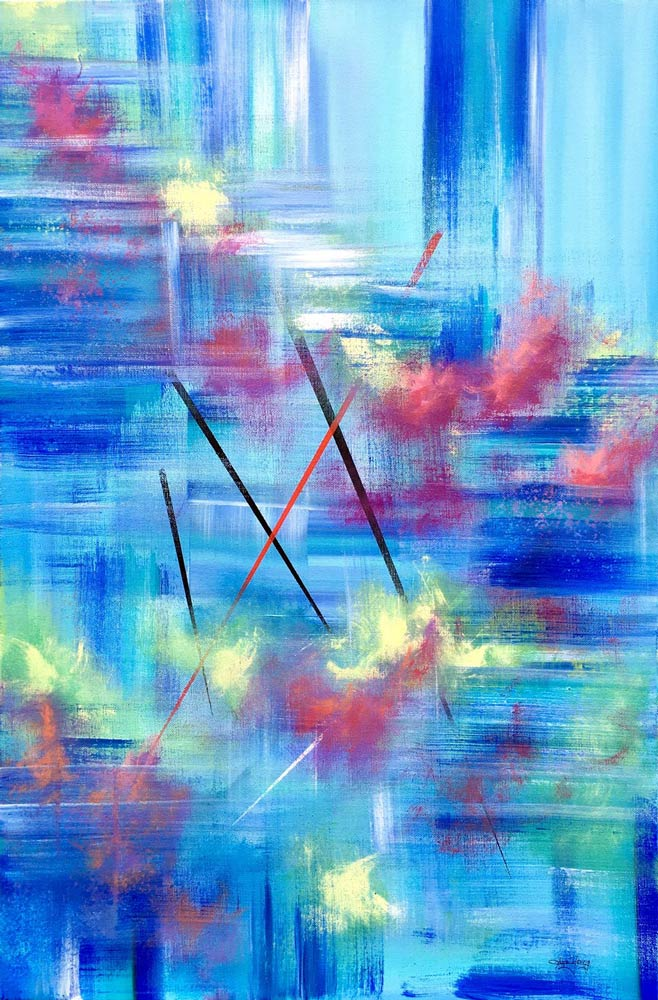
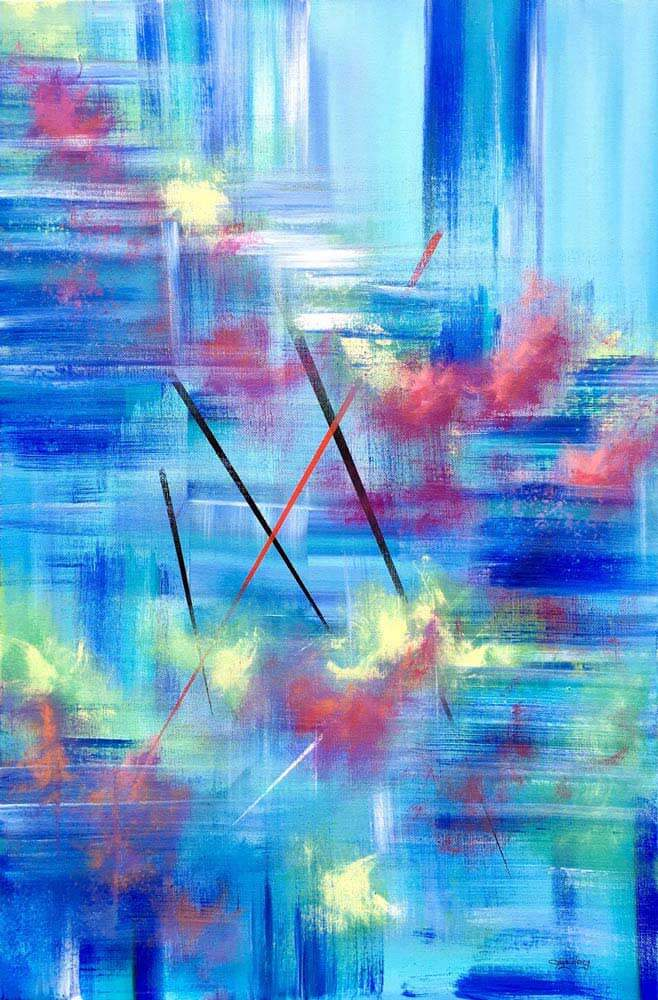
作品圖片壓縮與載入狀況優化 購買連結更新 作品說明更新 本書介紹加入全文

diff --git a/transmuting-pain/assets/css/common.min.css b/transmuting-pain/assets/css/common.min.css
@@ -1,1 +1,1 @@
-@import"https://fonts.googleapis.com/css2?family=Newsreader:opsz,wght@6..72,500&family=Noto+Sans+TC:wght@300;400;500&family=Noto+Serif+TC:wght@400;500&display=swap";body,h1,h2,h3,h4,h5,h6,p,blockquote,th,td,div,dl,dt,dd,ul,ol,li,pre,code,form,fieldset,legend,input,button,textarea{margin:0;padding:0}body,td,th{font:100%/1 Verdana,Geneva,sans-serif}h1,h2,h3,h4,h5,h6{font-size:100%;font-weight:normal}img,fieldset{border:0}ol,ul{list-style:none outside none}table{border-collapse:collapse;border-spacing:0}caption,th{text-align:left}a,ins{text-decoration:none}input,button,textarea,select,optgroup,option{font-family:inherit;font-size:inherit;font-style:inherit;font-weight:inherit}address,caption,cite,code,dfn,em,strong,th,var,optgroup{font-style:normal;font-weight:normal}abbr,acronym{border:0;font-variant:normal}sup,sub{font-size:100%;vertical-align:baseline}blockquote,q{quotes:none}blockquote:before,blockquote:after,q:before,q:after{content:""}code,kbd,samp,tt{font-size:100%}header,main,article,footer,div,section,ul{position:relative}input,button,select,textarea{outline:none;appearance:none;-webkit-appearance:none}*:focus{outline:none}body{font-family:"Noto Sans TC","LiHei Pro  Medium","Microsoft JhengHei","PMingLiU",Arial,sans-serif;-webkit-text-size-adjust:100%;-o-text-size-adjust:100%;text-size-adjust:100%;font-weight:300}a,*:hover{outline:none;transition:.3s ease-out}html,body{height:100%;border:none}img{width:100%;height:auto}div,section,header,footer,main,nav,ul,li,a,span{box-sizing:border-box}body{font-size:16px;font-family:"Noto Sans TC",sans-serif}@media(max-width: 799px){.pconly{display:none !important}}.mbonly{display:none}@media(max-width: 799px){.mbonly{display:inline-block !important}}.flex{display:-ms-flexbox;display:flex}.flex-pconly{display:-ms-flexbox;display:flex}@media(max-width: 799px){.flex-pconly{display:block !important}}.wrap{-ms-flex-wrap:wrap;flex-wrap:wrap}header{position:fixed;top:0;left:0;width:100%;padding:20px;z-index:99;transition:all .3s ease}@media(max-width: 799px){header{padding:15px 25px}}header.fixed{background-color:#fff;padding:8px 20px}@media(max-width: 799px){header.fixed{padding:15px 25px}}header .container{display:-ms-flexbox;display:flex;-ms-flex-pack:justify;justify-content:space-between;-ms-flex-align:center;align-items:center;margin:auto;width:100%;max-width:1260px}header .logo{width:120px}@media(max-width: 1200px){header .logo{width:100px}}header .logo:hover{opacity:.8}@media(max-width: 799px){header .hamberger{position:fixed;right:20px;top:18px;width:40px;height:40px;padding:5px;cursor:pointer;z-index:100}}@media(max-width: 799px){header .hamberger span{display:block;width:80%;height:3px;background-color:#8f6c51;position:absolute;left:10%;top:calc(50% - 1.5px)}}@media(max-width: 799px){header .hamberger span::before,header .hamberger span::after{content:"";display:block;width:100%;height:3px;background-color:#8f6c51;position:absolute;left:0}}@media(max-width: 799px){header .hamberger span::before{top:-8px}}@media(max-width: 799px){header .hamberger span::after{bottom:-8px}}@media(max-width: 799px){header nav{position:fixed;width:100%;height:100vh;top:0;left:100vw;background:#fff;padding:35px;z-index:101;transition:all .3s ease}}@media(max-width: 799px){header nav.show{left:0}}header nav ul{display:-ms-flexbox;display:flex;width:100%;gap:30px}@media(max-width: 1200px){header nav ul{gap:1.2vw}}@media(max-width: 799px){header nav ul{display:block}}header nav ul li{width:150px;padding:8px 15px;font-size:16px;line-height:1.8;text-align:center;color:#1e1e1e;cursor:pointer;border-bottom:2px solid rgba(0,0,0,0);transition:all .3s ease}@media(max-width: 1200px){header nav ul li{width:9vw}}@media(max-width: 799px){header nav ul li{width:100%;padding:10px 0;margin-bottom:30px}}header nav ul li:hover{color:#8f6c51;border-bottom-color:#8f6c51}header nav ul li.primary{background:#8f6c51;color:#fff;border:2px solid #8f6c51;border-radius:30px}header nav ul li.primary:hover{background:rgba(0,0,0,0);color:#8f6c51}@media(max-width: 799px){header nav .close{display:block;background-image:url(../images/close.svg);background-repeat:no-repeat;background-size:contain;margin-left:auto;margin-right:0;width:30px;height:30px;cursor:pointer}}main section{height:100vh;overflow:hidden}main section.content .container{margin:auto;padding:90px 50px;max-width:1180px}@media(max-width: 799px){main section.content .container{padding:90px 35px}}main section.content .container h2{text-align:center;font-size:42px;font-family:"Noto Serif TC",serif;font-weight:500;line-height:1.4;letter-spacing:4px;color:#8f6c51;margin-bottom:40px}@media(max-width: 1200px){main section.content .container h2{font-size:32px;margin-bottom:30px}}@media(max-width: 799px){main section.content .container h2{font-size:26px;letter-spacing:1.3px;margin-bottom:20px}}main section.content .container h2 span{display:inline-block;margin-left:-16px}@media(max-width: 799px){main section.content .container h2 span{display:block}}main section.content .container h2::after{content:"";display:block;width:70px;height:60px;background-image:url(../images/flora-spot.png);background-repeat:no-repeat;background-size:contain;margin:auto;margin-top:40px}@media(max-width: 1200px){main section.content .container h2::after{margin-top:30px;width:60px;height:50px}}@media(max-width: 799px){main section.content .container h2::after{margin-top:20px}}main section.content .container h3{font-size:26px;font-weight:500;line-height:1.2;letter-spacing:2.6px;font-family:"Noto Serif TC",serif;color:#8b8a8a;margin-bottom:18px}@media(max-width: 1200px){main section.content .container h3{font-size:22px;letter-spacing:2.2px}}main section.content.darkbg .container h2{color:#fff}main section.content.darkbg .container h2::after{background-image:url(../images/flora-spot-white.png)}main section.content.darkbg .container h3{color:#fff}main .kv{background-image:url(../images/kv-bg.jpg);background-repeat:no-repeat;background-size:cover;background-position:center;display:-ms-flexbox;display:flex;-ms-flex-align:center;align-items:center;min-height:590px;max-height:62.5vw}@media(max-width: 1200px){main .kv{min-height:680px;max-height:none}}@media(max-width: 799px){main .kv{background-image:url(../images/kv-bg-mb.jpg)}}main .kv .container{margin:auto;width:100%;max-width:1240px;display:-ms-flexbox;display:flex;-ms-flex-wrap:wrap;flex-wrap:wrap;padding:80px 50px}@media(max-width: 1200px){main .kv .container{padding:60px 30px}}@media(max-width: 799px){main .kv .container{padding:70px 0;display:block;text-align:center}}main .kv .container .cover{-ms-flex:0 0 208px;flex:0 0 208px;-ms-flex-order:2;order:2}@media(max-width: 1200px){main .kv .container .cover{-ms-flex:0 0 160px;flex:0 0 160px}}@media(max-width: 799px){main .kv .container .cover{width:255px;margin:auto;padding-right:35px;-ms-flex-order:0;order:0}}main .kv .container h1{-ms-flex:0 0 100%;flex:0 0 100%;padding-left:30px;-ms-flex-order:1;order:1;font-size:42px;line-height:1.4;letter-spacing:4px;color:#645b5b;margin-bottom:20px;font-weight:400;font-family:"Noto Serif TC",serif}@media(max-width: 1200px){main .kv .container h1{font-size:32px;padding-left:24px}}@media(max-width: 799px){main .kv .container h1{letter-spacing:2.8px;text-align:center;padding-left:0;font-size:28px;margin:10px auto}}@media(max-width: 490px){main .kv .container h1{font-size:24px;letter-spacing:1.5px}}main .kv .container h1 span{display:block;font-size:82px;letter-spacing:8px;color:#8f6c51;font-weight:500}@media(max-width: 1200px){main .kv .container h1 span{font-size:64px}}@media(max-width: 799px){main .kv .container h1 span{font-size:44px;letter-spacing:4px}}main .kv .container .label{display:none}@media(max-width: 799px){main .kv .container .label{display:inline-block;-ms-flex-order:1;order:1;background:#8f6c51;color:#fff;font-size:18px;font-family:"Noto Serif TC",serif;font-weight:500;letter-spacing:1.8px;line-height:1.4;padding:5px 10px;margin:auto;margin-bottom:10px}}main .kv .container .quote{-ms-flex-order:3;order:3;font-size:20px;line-height:1.5;letter-spacing:1.6px;padding:30px 0 0 45px;color:#645b5b}@media(max-width: 1200px){main .kv .container .quote{font-size:18px}}@media(max-width: 799px){main .kv .container .quote{padding:0px}}@media(max-width: 490px){main .kv .container .quote{font-size:16px;letter-spacing:1.2px}}main .kv .container .quote::before,main .kv .container .quote::after{content:"";background-repeat:no-repeat;background-size:contain;position:absolute;width:16px;height:16px}@media(max-width: 799px){main .kv .container .quote::before,main .kv .container .quote::after{display:none}}main .kv .container .quote::before{background-image:url(../images/quote-before-pc.svg);top:10px;left:20px}main .kv .container .quote::after{background-image:url(../images/quote-after-pc.svg);top:95px;right:0px}main .kv .container .quote p{padding-right:20px}@media(max-width: 799px){main .kv .container .quote p{padding:0}}@media(max-width: 799px){main .kv .container .quote p:first-child::before{content:"「"}}@media(max-width: 799px){main .kv .container .quote p:first-child::after{content:"」"}}main .kv .container .quote .name{margin-top:28px;padding-right:0;text-align:right}@media(max-width: 799px){main .kv .container .quote .name{text-align:center;margin-top:0}}main .kv .container .quote .name::before{content:"――";display:inline-block;margin-right:5px}@media(max-width: 799px){main .kv .container .quote .name::after{content:"――";display:inline-block;margin-left:5px}}main .kv .scrolldown{background-image:url(../images/scrolldown.png);background-repeat:no-repeat;background-size:contain;width:63px;height:40px;position:absolute;bottom:30px;left:50%;transform:translateX(-50%);animation:scrollDown 1.2s infinite;cursor:pointer}main .kv .scrolldown:hover{animation-play-state:paused}main .book{height:auto;background-color:#fffdee}main .book .text{width:calc(100% - 300px - 90px);margin-right:90px}@media(max-width: 1200px){main .book .text{width:calc(100% - 240px - 50px);margin-right:50px}}@media(max-width: 799px){main .book .text{width:100%;margin-right:0}}main .book .text p{font-size:16px;line-height:1.8;margin-bottom:18px}main .book .text p.strong{font-size:18px;font-weight:500}main .book .text a{color:#8f6c51;border-bottom:1px solid #8f6c51}main .book .text a:hover{color:#1e1e1e;border-color:rgba(0,0,0,0)}main .book .img{width:300px}@media(max-width: 1200px){main .book .img{width:240px}}@media(max-width: 799px){main .book .img{width:190px;margin:auto}}main .book .img img{box-shadow:5px 5px 34px 0 rgba(0,0,0,.15);animation:flow 1.8s infinite linear}main .book .img .info{display:-ms-flexbox;display:flex;-ms-flex-pack:center;justify-content:center;-ms-flex-align:end;align-items:flex-end;margin-top:25px;font-size:14px;line-height:1;font-family:Arial,Helvetica,sans-serif;gap:6px}main .book .img .info .discount{display:inline-block;background:#8f6c51;color:#fff;font-weight:500;padding:2px 8px 4px 8px;font-family:"Noto Serif TC",serif;font-size:24px;line-height:1}main .book .img .info .discount::after{content:"折";font-size:14px;margin-left:3px}main .book .img .info .price-now{font-size:30px;font-weight:600;color:#8f6c51}main .book .img .info .price-org{color:#8b8a8a;text-decoration:line-through;line-height:20px}main .book .recommend{margin-top:40px}@media(max-width: 1200px){main .book .recommend{margin-top:30px}}main .book .recommend .content{gap:40px}@media(max-width: 1200px){main .book .recommend .content{gap:30px}}main .book .recommend .content .card{background:#fff;padding:30px;width:calc(50% - 20px)}@media(max-width: 1200px){main .book .recommend .content .card{width:calc(50% - 15px);padding:25px}}@media(max-width: 799px){main .book .recommend .content .card{width:100%;padding:20px;margin-bottom:18px}}main .book .recommend .content .card p:first-child{font-size:21px;line-height:1.7;font-weight:500;letter-spacing:2px;font-family:"Noto Serif TC",serif;color:#1e1e1e}@media(max-width: 1200px){main .book .recommend .content .card p:first-child{font-size:18px;letter-spacing:1.8px}}main .book .recommend .content .card p.name{margin-top:10px;text-align:right;color:#8f6c51;line-height:1.7;font-size:16px}main .author{background-color:#8f6c51;height:auto}main .author::before{content:"";position:absolute;left:0;bottom:25px;width:39.7222222222vw;height:32.5287356322vh;background-color:#b08d72}@media(max-width: 1200px){main .author::before{width:31vw;height:33vh}}@media(max-width: 799px){main .author::before{width:50vw;height:24vw;left:inherit;right:0;bottom:inherit;top:114.5vw}}main .author .img{width:24.8611111111vw;padding-top:26px}@media(max-width: 799px){main .author .img{width:58.9743589744vw;padding-top:16px;margin:auto}}main .author .img .bg{position:absolute}main .author .img .bg1{width:91.3407821229%;top:26px;left:0px}main .author .img .bg2{width:83.7988826816%;top:0;right:0}main .author .img .person{position:relative;width:61.4525139665%;display:block;margin:auto}main .author .text{width:calc(100% - 24.8611111111vw - 90px);margin-left:90px;color:#fff}@media(max-width: 1200px){main .author .text{width:calc(100% - 24.8611111111vw - 50px);margin-left:50px}}@media(max-width: 799px){main .author .text{margin-left:0;padding-top:20px;width:100%}}@media(max-width: 799px){main .author .text h3{text-align:center}}main .author .text p{font-size:16px;line-height:1.8;margin-bottom:18px;color:#d9d9d9}main .author .text p.strong{font-size:18px;font-weight:500}main .author .text a{color:#d9d9d9;border-bottom:1px solid #d9d9d9}main .author .text a:hover{color:#fff;border-color:rgba(0,0,0,0)}main .artwork{height:auto}main .artwork .content{-ms-flex-pack:center;justify-content:center;gap:45px}@media(max-width: 1200px){main .artwork .content{gap:30px}}@media(max-width: 799px){main .artwork .content{gap:20px}}main .artwork .content .card{padding:10px 0;width:150px;cursor:pointer}@media(max-width: 799px){main .artwork .content .card{width:calc(50vw - 55px)}}main .artwork .content .card .img{width:150px;height:150px;border-radius:150px;overflow:hidden;margin-bottom:10px}@media(max-width: 799px){main .artwork .content .card .img{width:calc(50vw - 55px);max-width:150px;height:calc(50vw - 55px);max-height:150px;margin:auto;margin-bottom:10px}}main .artwork .content .card .img::before{content:"";transition:all .3s ease;position:absolute;top:0;left:0;width:100%;height:100%;background-color:rgba(0,0,0,.3);opacity:0}main .artwork .content .card .img img{width:140%;transition:all .3s ease;margin:-20%}main .artwork .content .card .text{text-align:center;font-size:16px;line-height:1.8;color:#1e1e1e}main .artwork .content .card .text span{display:block;color:#8b8a8a;font-size:20px;font-weight:500;line-height:1.2;font-family:"Newsreader",serif}main .artwork .content .card:hover .img::before{opacity:1}main .artwork .content .card:hover img{width:100%;margin:0}main .artwork .content .card:hover .text{color:#8f6c51}main .buy{background-color:#fffdee;height:auto}main .buy ul{-ms-flex-pack:center;justify-content:center;gap:20px}main .buy ul li{width:150px}@media(max-width: 799px){main .buy ul li{width:calc(50% - 10px);font-size:14px}}main .buy ul a{display:block;width:100%;padding:8px 15px;text-align:center;background:#8f6c51;border:2px solid #8f6c51;color:#fff;font-size:16px;line-height:1.8;border-radius:30px}main .buy ul a:hover{background:rgba(0,0,0,0);color:#8f6c51;border:2px solid #8f6c51}.lightbox{inset:0;position:fixed;top:0;left:0;width:100%;height:100vh;background-color:#fff;z-index:1000;opacity:0;visibility:hidden;transition:opacity .3s ease}.lightbox.show{opacity:1;visibility:visible}.lightbox .container{padding:20px 180px;height:100%;gap:90px;-ms-flex-align:center;align-items:center;opacity:1;transition:opacity .2s ease}@media(max-width: 1200px){.lightbox .container{padding:20px 90px;gap:50px}}@media(max-width: 799px){.lightbox .container{padding:80px 70px 40px 70px;overflow:auto}}.lightbox .container.fade-out{opacity:0}.lightbox .close{position:fixed;top:40px;right:40px;width:50px;height:50px;background-image:url(../images/close.svg);background-repeat:no-repeat;background-size:contain;cursor:pointer;transition:all .3s ease}@media(max-width: 1200px){.lightbox .close{width:30px;height:30px;right:25px;top:25px}}.lightbox .close:hover{transform:rotate(90deg)}.lightbox .arrow{position:fixed;top:calc(50% - 25px);width:30px;height:50px;background-repeat:no-repeat;background-size:contain;background-position:center;cursor:pointer;display:none}@media(max-width: 1200px){.lightbox .arrow{width:22px;height:40px;top:calc(50% - 20px)}}.lightbox .arrow-next{right:50px;background-image:url(../images/next.svg)}@media(max-width: 1200px){.lightbox .arrow-next{right:25px}}.lightbox .arrow-next:hover{transform:translateX(10px)}@media(max-width: 799px){.lightbox .arrow-next:hover{transform:none}}.lightbox .arrow-prev{left:50px;background-image:url(../images/prev.svg)}@media(max-width: 1200px){.lightbox .arrow-prev{left:25px}}.lightbox .arrow-prev:hover{transform:translateX(-10px)}@media(max-width: 799px){.lightbox .arrow-prev:hover{transform:none}}.lightbox .img{max-width:41.6666666667vw;max-height:100%;text-align:center;-ms-flex:none;flex:none;display:-ms-flexbox;display:flex;-ms-flex-pack:center;justify-content:center;-ms-flex-align:center;align-items:center}@media(max-width: 1200px){.lightbox .img{max-width:330px}}@media(max-width: 799px){.lightbox .img{max-width:100%;max-height:none;margin-bottom:20px}}.lightbox .img img{display:block;max-height:calc(100vh - 40px);width:auto;max-width:100%;height:auto}@media(max-width: 799px){.lightbox .img img{max-height:100vw}}.lightbox .text{font-size:16px;line-height:1.6;color:#645b5b;max-height:calc(100vh - 180px);overflow-y:auto}@media(max-width: 799px){.lightbox .text{max-height:none}}.lightbox .text h2{font-family:"Noto Serif TC",serif;font-size:42px;font-weight:500;line-height:1.4;letter-spacing:4px;color:#1e1e1e;margin-bottom:10px}@media(max-width: 1200px){.lightbox .text h2{font-size:32px;letter-spacing:2.5px;margin-bottom:5px}}@media(max-width: 799px){.lightbox .text h2{font-size:26px;text-align:center;letter-spacing:1.3px}}.lightbox .text .chapter{margin-bottom:20px;line-height:1;color:#1e1e1e}@media(max-width: 1200px){.lightbox .text .chapter{margin-bottom:10px}}@media(max-width: 799px){.lightbox .text .chapter{text-align:center}}.lightbox .text .chapter span:first-child{color:#b4713a;font-family:"Newsreader",serif;font-weight:500}.lightbox .text .chapter span:last-child::before{content:"：";display:inline-block}.lightbox .text .content{white-space:pre-line}footer{padding:20px 35px;font-size:14px;text-align:center;color:#8b8a8a;line-height:1.8}footer a{color:#8b8a8a;text-decoration:underline}footer a:hover{color:#8f6c51;text-decoration:none}@keyframes scrollDown{0%{transform:translateX(-50%) translateY(0)}50%{transform:translateX(-50%) translateY(-10px)}100%{transform:translateX(-50%) translateY(0)}}@keyframes flow{0%{transform:translateY(0)}50%{transform:translateY(10px)}100%{transform:translateY(0)}}/*# sourceMappingURL=common.min.css.map */
+@import"https://fonts.googleapis.com/css2?family=Newsreader:opsz,wght@6..72,500&family=Noto+Sans+TC:wght@300;400;500&family=Noto+Serif+TC:wght@400;500&display=swap";body,h1,h2,h3,h4,h5,h6,p,blockquote,th,td,div,dl,dt,dd,ul,ol,li,pre,code,form,fieldset,legend,input,button,textarea{margin:0;padding:0}body,td,th{font:100%/1 Verdana,Geneva,sans-serif}h1,h2,h3,h4,h5,h6{font-size:100%;font-weight:normal}img,fieldset{border:0}ol,ul{list-style:none outside none}table{border-collapse:collapse;border-spacing:0}caption,th{text-align:left}a,ins{text-decoration:none}input,button,textarea,select,optgroup,option{font-family:inherit;font-size:inherit;font-style:inherit;font-weight:inherit}address,caption,cite,code,dfn,em,strong,th,var,optgroup{font-style:normal;font-weight:normal}abbr,acronym{border:0;font-variant:normal}sup,sub{font-size:100%;vertical-align:baseline}blockquote,q{quotes:none}blockquote:before,blockquote:after,q:before,q:after{content:""}code,kbd,samp,tt{font-size:100%}header,main,article,footer,div,section,ul{position:relative}input,button,select,textarea{outline:none;appearance:none;-webkit-appearance:none}*:focus{outline:none}body{font-family:"Noto Sans TC","LiHei Pro  Medium","Microsoft JhengHei","PMingLiU",Arial,sans-serif;-webkit-text-size-adjust:100%;-o-text-size-adjust:100%;text-size-adjust:100%;font-weight:300}a,*:hover{outline:none;transition:.3s ease-out}html,body{height:100%;border:none}img{width:100%;height:auto}div,section,header,footer,main,nav,ul,li,a,span{box-sizing:border-box}body{font-size:16px;font-family:"Noto Sans TC",sans-serif}@media(max-width: 799px){.pconly{display:none !important}}.mbonly{display:none}@media(max-width: 799px){.mbonly{display:inline-block !important}}.flex{display:-ms-flexbox;display:flex}.flex-pconly{display:-ms-flexbox;display:flex}@media(max-width: 799px){.flex-pconly{display:block !important}}.wrap{-ms-flex-wrap:wrap;flex-wrap:wrap}header{position:fixed;top:0;left:0;width:100%;padding:20px;z-index:99;transition:all .3s ease}@media(max-width: 799px){header{padding:15px 25px}}header.fixed{background-color:#fff;padding:8px 20px}@media(max-width: 799px){header.fixed{padding:15px 25px}}header .container{display:-ms-flexbox;display:flex;-ms-flex-pack:justify;justify-content:space-between;-ms-flex-align:center;align-items:center;margin:auto;width:100%;max-width:1260px}header .logo{width:120px}@media(max-width: 1200px){header .logo{width:100px}}header .logo:hover{opacity:.8}@media(max-width: 799px){header .hamberger{position:fixed;right:20px;top:18px;width:40px;height:40px;padding:5px;cursor:pointer;z-index:100}}@media(max-width: 799px){header .hamberger span{display:block;width:80%;height:3px;background-color:#8f6c51;position:absolute;left:10%;top:calc(50% - 1.5px)}}@media(max-width: 799px){header .hamberger span::before,header .hamberger span::after{content:"";display:block;width:100%;height:3px;background-color:#8f6c51;position:absolute;left:0}}@media(max-width: 799px){header .hamberger span::before{top:-8px}}@media(max-width: 799px){header .hamberger span::after{bottom:-8px}}@media(max-width: 799px){header nav{position:fixed;width:100%;height:100vh;top:0;left:100vw;background:#fff;padding:35px;z-index:101;transition:all .3s ease}}@media(max-width: 799px){header nav.show{left:0}}header nav ul{display:-ms-flexbox;display:flex;width:100%;gap:30px}@media(max-width: 1200px){header nav ul{gap:1.2vw}}@media(max-width: 799px){header nav ul{display:block}}header nav ul li{width:150px;padding:8px 15px;font-size:16px;line-height:1.8;text-align:center;color:#1e1e1e;cursor:pointer;border-bottom:2px solid rgba(0,0,0,0);transition:all .3s ease}@media(max-width: 1200px){header nav ul li{width:9.8vw}}@media(max-width: 799px){header nav ul li{width:100%;padding:10px 0;margin-bottom:30px}}header nav ul li:hover{color:#8f6c51;border-bottom-color:#8f6c51}header nav ul li.primary{background:#8f6c51;color:#fff;border:2px solid #8f6c51;border-radius:30px}header nav ul li.primary:hover{background:rgba(0,0,0,0);color:#8f6c51}@media(max-width: 799px){header nav .close{display:block;background-image:url(../images/close.svg);background-repeat:no-repeat;background-size:contain;margin-left:auto;margin-right:0;width:30px;height:30px;cursor:pointer}}main section{height:100vh;overflow:hidden}main section.content .container{margin:auto;padding:90px 50px;max-width:1180px}@media(max-width: 799px){main section.content .container{padding:90px 35px}}main section.content .container h2{text-align:center;font-size:42px;font-family:"Noto Serif TC",serif;font-weight:500;line-height:1.4;letter-spacing:4px;color:#8f6c51;margin-bottom:40px}@media(max-width: 1200px){main section.content .container h2{font-size:32px;margin-bottom:30px}}@media(max-width: 799px){main section.content .container h2{font-size:26px;letter-spacing:1.3px;margin-bottom:20px}}main section.content .container h2 span{display:inline-block;margin-left:-16px}@media(max-width: 799px){main section.content .container h2 span{display:block}}main section.content .container h2::after{content:"";display:block;width:70px;height:60px;background-image:url(../images/flora-spot.png);background-repeat:no-repeat;background-size:contain;margin:auto;margin-top:40px}@media(max-width: 1200px){main section.content .container h2::after{margin-top:30px;width:60px;height:50px}}@media(max-width: 799px){main section.content .container h2::after{margin-top:20px}}main section.content .container h3{font-size:26px;font-weight:500;line-height:1.2;letter-spacing:2.6px;font-family:"Noto Serif TC",serif;color:#8b8a8a;margin-bottom:18px}@media(max-width: 1200px){main section.content .container h3{font-size:22px;letter-spacing:2.2px}}main section.content.darkbg .container h2{color:#fff}main section.content.darkbg .container h2::after{background-image:url(../images/flora-spot-white.png)}main section.content.darkbg .container h3{color:#fff}main .kv{background-image:url(../images/kv-bg.jpg);background-repeat:no-repeat;background-size:cover;background-position:center;display:-ms-flexbox;display:flex;-ms-flex-align:center;align-items:center;min-height:590px;max-height:62.5vw}@media(max-width: 1200px){main .kv{min-height:680px;max-height:none}}@media(max-width: 799px){main .kv{background-image:url(../images/kv-bg-mb.jpg)}}main .kv .container{margin:auto;width:100%;max-width:1240px;display:-ms-flexbox;display:flex;-ms-flex-wrap:wrap;flex-wrap:wrap;padding:80px 50px}@media(max-width: 1200px){main .kv .container{padding:60px 30px}}@media(max-width: 799px){main .kv .container{padding:70px 0;display:block;text-align:center}}main .kv .container .cover{-ms-flex:0 0 208px;flex:0 0 208px;-ms-flex-order:2;order:2}@media(max-width: 1200px){main .kv .container .cover{-ms-flex:0 0 160px;flex:0 0 160px}}@media(max-width: 799px){main .kv .container .cover{width:255px;margin:auto;padding-right:35px;-ms-flex-order:0;order:0}}main .kv .container h1{-ms-flex:0 0 100%;flex:0 0 100%;padding-left:30px;-ms-flex-order:1;order:1;font-size:42px;line-height:1.4;letter-spacing:4px;color:#645b5b;margin-bottom:20px;font-weight:400;font-family:"Noto Serif TC",serif}@media(max-width: 1200px){main .kv .container h1{font-size:32px;padding-left:24px}}@media(max-width: 799px){main .kv .container h1{letter-spacing:2.8px;text-align:center;padding-left:0;font-size:28px;margin:10px auto}}@media(max-width: 490px){main .kv .container h1{font-size:24px;letter-spacing:1.5px}}main .kv .container h1 span{display:block;font-size:82px;letter-spacing:8px;color:#8f6c51;font-weight:500}@media(max-width: 1200px){main .kv .container h1 span{font-size:64px}}@media(max-width: 799px){main .kv .container h1 span{font-size:44px;letter-spacing:4px}}main .kv .container .label{display:none}@media(max-width: 799px){main .kv .container .label{display:inline-block;-ms-flex-order:1;order:1;background:#8f6c51;color:#fff;font-size:18px;font-family:"Noto Serif TC",serif;font-weight:500;letter-spacing:1.8px;line-height:1.4;padding:5px 10px;margin:auto;margin-bottom:10px}}main .kv .container .quote{-ms-flex-order:3;order:3;font-size:20px;line-height:1.5;letter-spacing:1.6px;padding:30px 0 0 45px;color:#645b5b}@media(max-width: 1200px){main .kv .container .quote{font-size:18px}}@media(max-width: 799px){main .kv .container .quote{padding:0px}}@media(max-width: 490px){main .kv .container .quote{font-size:16px;letter-spacing:1.2px}}main .kv .container .quote::before,main .kv .container .quote::after{content:"";background-repeat:no-repeat;background-size:contain;position:absolute;width:16px;height:16px}@media(max-width: 799px){main .kv .container .quote::before,main .kv .container .quote::after{display:none}}main .kv .container .quote::before{background-image:url(../images/quote-before-pc.svg);top:10px;left:20px}main .kv .container .quote::after{background-image:url(../images/quote-after-pc.svg);top:95px;right:0px}main .kv .container .quote p{padding-right:20px}@media(max-width: 799px){main .kv .container .quote p{padding:0}}@media(max-width: 799px){main .kv .container .quote p:first-child::before{content:"「"}}@media(max-width: 799px){main .kv .container .quote p:first-child::after{content:"」"}}main .kv .container .quote .name{margin-top:28px;padding-right:0;text-align:right}@media(max-width: 799px){main .kv .container .quote .name{text-align:center;margin-top:0}}main .kv .container .quote .name::before{content:"――";display:inline-block;margin-right:5px}@media(max-width: 799px){main .kv .container .quote .name::after{content:"――";display:inline-block;margin-left:5px}}main .kv .scrolldown{background-image:url(../images/scrolldown.png);background-repeat:no-repeat;background-size:contain;width:63px;height:40px;position:absolute;bottom:30px;left:50%;transform:translateX(-50%);animation:scrollDown 1.2s infinite;cursor:pointer}main .kv .scrolldown:hover{animation-play-state:paused}main .book{height:auto;background-color:#fffdee;overflow:unset}main .book .text{width:calc(100% - 300px - 90px);margin-right:90px}@media(max-width: 1200px){main .book .text{width:calc(100% - 240px - 50px);margin-right:50px}}@media(max-width: 799px){main .book .text{width:100%;margin-right:0}}main .book .text p{font-size:16px;line-height:1.8;margin-bottom:18px}main .book .text p.strong{font-size:18px;font-weight:500}main .book .text a{color:#8f6c51;border-bottom:1px solid #8f6c51}main .book .text a:hover{color:#1e1e1e;border-color:rgba(0,0,0,0)}main .book .img{width:300px;height:500px;position:sticky;top:100px}@media(max-width: 1200px){main .book .img{width:240px;height:400px}}@media(max-width: 799px){main .book .img{width:190px;height:auto;margin:auto}}main .book .img img{box-shadow:5px 5px 34px 0 rgba(0,0,0,.15)}main .book .img .info{display:-ms-flexbox;display:flex;-ms-flex-pack:center;justify-content:center;-ms-flex-align:end;align-items:flex-end;margin-top:25px;font-size:14px;line-height:1;font-family:Arial,Helvetica,sans-serif;gap:6px}main .book .img .info .discount{display:inline-block;background:#8f6c51;color:#fff;font-weight:500;padding:2px 8px 4px 8px;font-family:"Noto Serif TC",serif;font-size:24px;line-height:1}main .book .img .info .discount::after{content:"折";font-size:14px;margin-left:3px}main .book .img .info .price-now{font-size:30px;font-weight:600;color:#8f6c51}main .book .img .info .price-org{color:#8b8a8a;text-decoration:line-through;line-height:20px}main .book .recommend{margin-top:40px}@media(max-width: 1200px){main .book .recommend{margin-top:30px}}main .book .recommend .content{gap:40px}@media(max-width: 1200px){main .book .recommend .content{gap:30px}}main .book .recommend .content .card{background:#fff;padding:30px;width:calc(50% - 20px)}@media(max-width: 1200px){main .book .recommend .content .card{width:calc(50% - 15px);padding:25px}}@media(max-width: 799px){main .book .recommend .content .card{width:100%;padding:20px;margin-bottom:18px}}main .book .recommend .content .card p:first-child{font-size:21px;line-height:1.7;font-weight:500;letter-spacing:2px;font-family:"Noto Serif TC",serif;color:#1e1e1e}@media(max-width: 1200px){main .book .recommend .content .card p:first-child{font-size:18px;letter-spacing:1.8px}}main .book .recommend .content .card p.name{margin-top:10px;text-align:right;color:#8f6c51;line-height:1.7;font-size:16px}main .author{background-color:#8f6c51;height:auto}main .author::before{content:"";position:absolute;left:0;bottom:25px;width:39.7222222222vw;height:32.5287356322vh;background-color:#b08d72}@media(max-width: 1200px){main .author::before{width:31vw;height:33vh}}@media(max-width: 799px){main .author::before{width:50vw;height:24vw;left:inherit;right:0;bottom:inherit;top:114.5vw}}main .author .img{width:24.8611111111vw;padding-top:26px}@media(max-width: 799px){main .author .img{width:58.9743589744vw;padding-top:16px;margin:auto}}main .author .img .bg{position:absolute}main .author .img .bg1{width:91.3407821229%;top:26px;left:0px}main .author .img .bg2{width:83.7988826816%;top:0;right:0}main .author .img .person{position:relative;width:61.4525139665%;display:block;margin:auto}main .author .text{width:calc(100% - 24.8611111111vw - 90px);margin-left:90px;color:#fff}@media(max-width: 1200px){main .author .text{width:calc(100% - 24.8611111111vw - 50px);margin-left:50px}}@media(max-width: 799px){main .author .text{margin-left:0;padding-top:20px;width:100%}}@media(max-width: 799px){main .author .text h3{text-align:center}}main .author .text p{font-size:16px;line-height:1.8;margin-bottom:18px;color:#d9d9d9}main .author .text p.strong{font-size:18px;font-weight:500}main .author .text a{color:#d9d9d9;border-bottom:1px solid #d9d9d9}main .author .text a:hover{color:#fff;border-color:rgba(0,0,0,0)}main .artwork{height:auto}main .artwork .content{-ms-flex-pack:center;justify-content:center;gap:45px}@media(max-width: 1200px){main .artwork .content{gap:30px}}@media(max-width: 799px){main .artwork .content{gap:20px}}main .artwork .content .card{padding:10px 0;width:150px;cursor:pointer}@media(max-width: 799px){main .artwork .content .card{width:calc(50vw - 55px)}}main .artwork .content .card .img{width:150px;height:150px;border-radius:150px;overflow:hidden;margin-bottom:10px}@media(max-width: 799px){main .artwork .content .card .img{width:calc(50vw - 55px);max-width:150px;height:calc(50vw - 55px);max-height:150px;margin:auto;margin-bottom:10px}}main .artwork .content .card .img::before{content:"";transition:all .3s ease;position:absolute;top:0;left:0;width:100%;height:100%;background-color:rgba(0,0,0,.3);opacity:0}main .artwork .content .card .img img{width:140%;transition:all .3s ease;margin:-20%}main .artwork .content .card .text{text-align:center;font-size:16px;line-height:1.4;color:#1e1e1e}main .artwork .content .card .text span{display:block;color:#8b8a8a;font-size:20px;font-weight:500;line-height:1.2;font-family:"Newsreader",serif}main .artwork .content .card:hover .img::before{opacity:1}main .artwork .content .card:hover img{width:100%;margin:0}main .artwork .content .card:hover .text{color:#8f6c51}main .buy{background-color:#fffdee;height:auto}main .buy ul{-ms-flex-pack:center;justify-content:center;gap:20px}main .buy ul li{width:150px}@media(max-width: 799px){main .buy ul li{width:calc(50% - 10px);font-size:14px}}main .buy ul a{display:block;width:100%;padding:8px 15px;text-align:center;background:#8f6c51;border:2px solid #8f6c51;color:#fff;font-size:16px;line-height:1.8;border-radius:30px}main .buy ul a:hover{background:rgba(0,0,0,0);color:#8f6c51;border:2px solid #8f6c51}.lightbox{inset:0;position:fixed;top:0;left:0;width:100%;height:100vh;background-color:#fff;z-index:1000;opacity:0;visibility:hidden;transition:opacity .3s ease}.lightbox.show{opacity:1;visibility:visible}.lightbox .container{padding:20px 180px;height:100%;gap:90px;-ms-flex-align:center;align-items:center;opacity:1;transition:opacity .2s ease}@media(max-width: 1200px){.lightbox .container{padding:20px 90px;gap:50px}}@media(max-width: 799px){.lightbox .container{padding:80px 70px 40px 70px;overflow:auto}}.lightbox .container.fade-out{opacity:0}.lightbox .close{position:fixed;top:40px;right:40px;width:50px;height:50px;background-image:url(../images/close.svg);background-repeat:no-repeat;background-size:contain;cursor:pointer;transition:all .3s ease}@media(max-width: 1200px){.lightbox .close{width:30px;height:30px;right:25px;top:25px}}.lightbox .close:hover{transform:rotate(90deg)}.lightbox .arrow{position:fixed;top:calc(50% - 25px);width:30px;height:50px;background-repeat:no-repeat;background-size:contain;background-position:center;cursor:pointer;display:none}@media(max-width: 1200px){.lightbox .arrow{width:22px;height:40px;top:calc(50% - 20px)}}.lightbox .arrow-next{right:50px;background-image:url(../images/next.svg)}@media(max-width: 1200px){.lightbox .arrow-next{right:25px}}.lightbox .arrow-next:hover{transform:translateX(10px)}@media(max-width: 799px){.lightbox .arrow-next:hover{transform:none}}.lightbox .arrow-prev{left:50px;background-image:url(../images/prev.svg)}@media(max-width: 1200px){.lightbox .arrow-prev{left:25px}}.lightbox .arrow-prev:hover{transform:translateX(-10px)}@media(max-width: 799px){.lightbox .arrow-prev:hover{transform:none}}.lightbox .img{max-width:41.6666666667vw;max-height:100%;text-align:center;-ms-flex:none;flex:none;display:-ms-flexbox;display:flex;-ms-flex-pack:center;justify-content:center;-ms-flex-align:center;align-items:center}@media(max-width: 1200px){.lightbox .img{max-width:330px}}@media(max-width: 799px){.lightbox .img{max-width:100%;max-height:none;margin-bottom:20px}}.lightbox .img img{display:block;max-height:calc(100vh - 40px);width:auto;max-width:100%;height:auto}@media(max-width: 799px){.lightbox .img img{max-height:100vw}}.lightbox .text{font-size:16px;line-height:1.6;color:#645b5b;max-height:calc(100vh - 180px);overflow-y:auto}@media(max-width: 799px){.lightbox .text{max-height:none}}.lightbox .text h2{font-family:"Noto Serif TC",serif;font-size:42px;font-weight:500;line-height:1.4;letter-spacing:4px;color:#1e1e1e;margin-bottom:10px}@media(max-width: 1200px){.lightbox .text h2{font-size:32px;letter-spacing:2.5px;margin-bottom:5px}}@media(max-width: 799px){.lightbox .text h2{font-size:26px;text-align:center;letter-spacing:1.3px}}.lightbox .text .chapter{margin-bottom:20px;line-height:1;color:#1e1e1e}@media(max-width: 1200px){.lightbox .text .chapter{margin-bottom:10px}}@media(max-width: 799px){.lightbox .text .chapter{text-align:center}}.lightbox .text .chapter span:first-child{color:#b4713a;font-family:"Newsreader",serif;font-weight:500}.lightbox .text .chapter span:last-child::before{content:"：";display:inline-block}.lightbox .text .content{white-space:pre-line;text-align:justify}.loading{position:absolute;top:50%;left:50%;transform:translate(-50%, -50%);font-size:16px;animation:blink 1s infinite;z-index:999;display:none}.loading::after{content:"";width:30px;height:30px;border:3px solid #ccc;border-top-color:#000;border-radius:50%;animation:spin .8s linear infinite;display:block;margin:auto}@keyframes spin{to{transform:rotate(360deg)}}@keyframes blink{0%{opacity:.2}50%{opacity:1}100%{opacity:.2}}footer{padding:20px 35px;font-size:14px;text-align:center;color:#8b8a8a;line-height:1.8}footer a{color:#8b8a8a;text-decoration:underline}footer a:hover{color:#8f6c51;text-decoration:none}@keyframes scrollDown{0%{transform:translateX(-50%) translateY(0)}50%{transform:translateX(-50%) translateY(-10px)}100%{transform:translateX(-50%) translateY(0)}}@keyframes flow{0%{transform:translateY(0)}50%{transform:translateY(10px)}100%{transform:translateY(0)}}/*# sourceMappingURL=common.min.css.map */

diff --git a/transmuting-pain/assets/js/render.js b/transmuting-pain/assets/js/render.js
@@ -48,6 +48,7 @@ const contentEl = lightbox.querySelector(".content");
 const closeBtn = lightbox.querySelector(".close");
 const arrowPrev = lightbox.querySelector(".arrow-prev");
 const arrowNext = lightbox.querySelector(".arrow-next");
+const loadingEl = lightbox.querySelector(".loading");
 
 // 載入 artworkData.jso
 fetch("assets/js/artworkData.json")
@@ -93,24 +94,51 @@ chapterList.addEventListener("click", e => {
 
 const container = lightbox.querySelector(".container");
 
-// 更新 Lightbox 顯示內容
-function updateContent() {
+// 更新 Lightbox 顯示內容。改成可接受參數，等圖片 onload 後再顯示
+function updateContent(onReady) {
   const item = currentChapter[currentIndex];
-  imgEl.src = `assets/images/artwork/img${item.img}.jpg`;
-  imgEl.alt = item.title;
-  chapterSpan.textContent = `Chapter ${item.chapter_id}`;
-  chapterTitleSpan.textContent = item.chapter_title;
-  titleEl.textContent = item.title;
-  contentEl.textContent = item.text;
+  console.log("🔄 updateContent() 開始載入圖片", item.img);
 
-  // 箭頭控制
-  arrowPrev.style.display = currentIndex > 0 ? "block" : "none";
-  arrowNext.style.display = currentIndex < currentChapter.length - 1 ? "block" : "none";
+  const tempImg = new Image();
+  tempImg.onload = () => {
+    console.log("✅ 圖片載入完成", tempImg.src);
+
+    imgEl.src = tempImg.src;
+    imgEl.alt = item.title;
+
+    chapterSpan.textContent = `Chapter ${item.chapter_id}`;
+    chapterTitleSpan.textContent = item.chapter_title;
+    titleEl.textContent = item.title;
+    contentEl.innerHTML = item.text.replace(/\n/g, "<br>");
+
+    arrowPrev.style.display = currentIndex > 0 ? "block" : "none";
+    arrowNext.style.display = currentIndex < currentChapter.length - 1 ? "block" : "none";
+
+    console.log("✨ updateContent() 已更新 DOM");
+
+    if (typeof onReady === "function") {
+      loadingEl.style.display = "none"; // ❌ 停止顯示
+      onReady(); // ✅ 確保只有在有傳入 callback 時才執行
+    }
+  };
+
+  tempImg.src = `assets/images/artwork/img${item.img}.jpg`;
+
+  if (tempImg.complete) {
+    console.log("⚡ tempImg.complete == true，直接觸發 onload");
+    tempImg.onload();
+  }
 }
 
 function showLightbox() {
+  container.classList.add("fade-out"); // 先透明
   lightbox.classList.add("show");
-  updateContent();
+
+  updateContent(() => {
+    requestAnimationFrame(() => {
+      container.classList.remove("fade-out"); // ✅ 淡入
+    });
+  });
 }
 
 function switchContent(newIndex) {
@@ -118,17 +146,26 @@ function switchContent(newIndex) {
 
   container.classList.add("fade-out");
 
-  // 等 CSS 動畫結束後才換內容
-  container.addEventListener("transitionend", function handler() {
-    container.removeEventListener("transitionend", handler);
+  function doSwitch() {
+    loadingEl.style.display = "block"; // ✅ 顯示 Loading
+    console.log("🟡 Loading should be visible now");
+    container.removeEventListener("transitionend", doSwitch);
 
     currentIndex = newIndex;
-    updateContent();
 
-    // 強制重繪，觸發淡入
-    void container.offsetWidth;
-    container.classList.remove("fade-out");
-  });
+    updateContent(() => {
+      requestAnimationFrame(() => {
+        container.classList.remove("fade-out");
+      });
+    });
+  }
+
+  container.addEventListener("transitionend", doSwitch);
+
+  // ✅ 萬一 transition 沒觸發（例如快速連點 或 無法 transition），保底 400ms
+  setTimeout(() => {
+    if (container.classList.contains("fade-out")) doSwitch();
+  }, 400);
 }
 
 // 箭頭事件

diff --git a/transmuting-pain/index.html b/transmuting-pain/index.html
@@ -133,7 +133,10 @@
             <p>台灣「經營之神」王永慶的外孫女，畢業於哈佛大學，楊元寧是生命教練、作家與藝術家。她將帶領你踏上一段療癒之旅，勇敢面對痛苦，突破恐懼，並探索真實的自我。</p>
             <p>在充滿挑戰的生命旅程中，楊元寧坦然分享自己的心路歷程，邀你共乘心靈的雲霄飛車，親歷她在追尋生命意義過程中的跌宕與突破。她以多年來的自我探索，加上在正向心理學、瑜伽、呼吸、氣功以及其他自然療法上的訓練，提供了具體可行的方法，幫助你穿越自身痛苦，照亮內在幽暗，並在受困、窒息或失去意義的生命中，找到真正的自由。</p>
             <p>許多時候，最困擾我們的事，反映的其實是內心深處準備解開的結。</p>
-            <p>痛苦，往往是推動改變、掙脫束縛、找回真我的最強大力量。當我們鼓起勇氣，直視那些限制潛能的痛，才有可能掙脫過去的枷鎖，走進一個布滿新生機與未知的世界...<a href="https://books.cw.com.tw/book/987" target="_blank">more</a></p>
+            <p>痛苦，往往是推動改變、掙脫束縛、找回真我的最強大力量。當我們鼓起勇氣，直視那些限制潛能的痛，才有可能掙脫過去的枷鎖，走進一個布滿新生機與未知的世界。</p>
+            <p>我們多半習慣壓抑真正的感受，逃避那些令我們不舒服的情緒。可是一旦選擇逃避真正的自我，也等於逃離了生命本身。活在過去的陰影裡，卻不自知；每一個念頭、每一句話、每一個反應與行為，都被承載的恐懼壓著，被曾經的創傷牽動著，被那些尚未被看見、尚未癒合的傷口深深影響著，使我們的內在長期處於敏感與脆弱之中。</p>
+            <p>面對痛苦往往是最令人恐懼的事。它會讓我們心碎，耗盡我們的能量。但唯有勇敢直面這份痛苦，穿越內在的掙扎，才能真正療癒那道創傷，在心裡為自己找到一個可以安住的空間，重新踏上人生旅程。懷抱新的視野、嶄新的覺知，以及全然的力量，我們終將活出渴望的人生！</p>
+            <p>楊元寧的文字充滿慈悲與力量，引導我們學會傾聽痛苦中的智慧、情緒中的力量，以及傷口所孕育的養分，去觸碰更深層、更廣大的自己，最終帶領我們回到真實的本我。她傳遞一則充滿希望、信任和勇氣的訊息：唯有直面那些最想逃避的不適，才終能迎來真正的自由！</p>
           </div>
           <div class="img" data-aos="fade-right" data-aos-duration="1000">
             <img src="assets/images/cover.jpg" loading="lazy" alt="《綻放真我 突破痛苦 找回內心的自由》書封">
@@ -204,6 +207,7 @@
   <!-- lightbox for 線上藝廊 -->
   <!-- render from artworkData.json -->
   <div class="lightbox" id="lightbox">
+    <div class="loading"></div>
     <div class="container flex-pconly">
       <div class="close" id="lightbox-close"></div>
       <div class="img">

diff --git a/transmuting-pain/assets/css/common.scss b/transmuting-pain/assets/css/common.scss
@@ -174,7 +174,7 @@ header {
         border-bottom: 2px solid transparent;
         transition: all 0.3s ease;
         @include media($small-desktop){
-          width: 9vw;
+          width: 9.8vw;
         }
         @include media($tablet){
           width: 100%;
@@ -505,6 +505,7 @@ main {
   .book {
     height: auto;
     background-color: $accent-color;
+    overflow: unset;
     .text {
       width: calc(100% - 300px - 90px);
       margin-right: 90px;
@@ -537,16 +538,21 @@ main {
     }
     .img {
       width: 300px;
+      height: 500px;
+      position: sticky;
+      top: 100px;
       @include media($small-desktop){
         width: 240px;
+        height: 400px;
       }
       @include media($tablet){
         width: 190px;
+        height: auto;
         margin: auto;
       }
       img {
         box-shadow: 5px 5px 34px 0 rgba(0, 0, 0, 0.15);
-        animation: flow 1.8s infinite linear;
+        // animation: flow 1.8s infinite linear;
       }
       .info {
         display: flex;
@@ -774,7 +780,7 @@ main {
         .text {
           text-align: center;
           font-size: 16px;
-          line-height: 1.8;
+          line-height: 1.4;
           color: $this-black;
           span {
             display: block;
@@ -1014,8 +1020,40 @@ main {
     }
     .content {
       white-space: pre-line;
+      text-align: justify;
     }
   }
+}
+.loading {
+  position: absolute;
+  top: 50%;
+  left: 50%;
+  transform: translate(-50%, -50%);
+  font-size: 16px;
+  animation: blink 1s infinite;
+  z-index: 999;
+  display: none; /* 預設隱藏 */
+  &::after {
+    content: "";
+    width: 30px;
+    height: 30px;
+    border: 3px solid #ccc;
+    border-top-color: #000;
+    border-radius: 50%;
+    animation: spin 0.8s linear infinite;
+    display: block;
+    margin: auto;
+  }
+}
+
+@keyframes spin {
+  to { transform: rotate(360deg); }
+}
+
+@keyframes blink {
+  0% { opacity: 0.2; }
+  50% { opacity: 1; }
+  100% { opacity: 0.2; }
 }
 
 footer {
